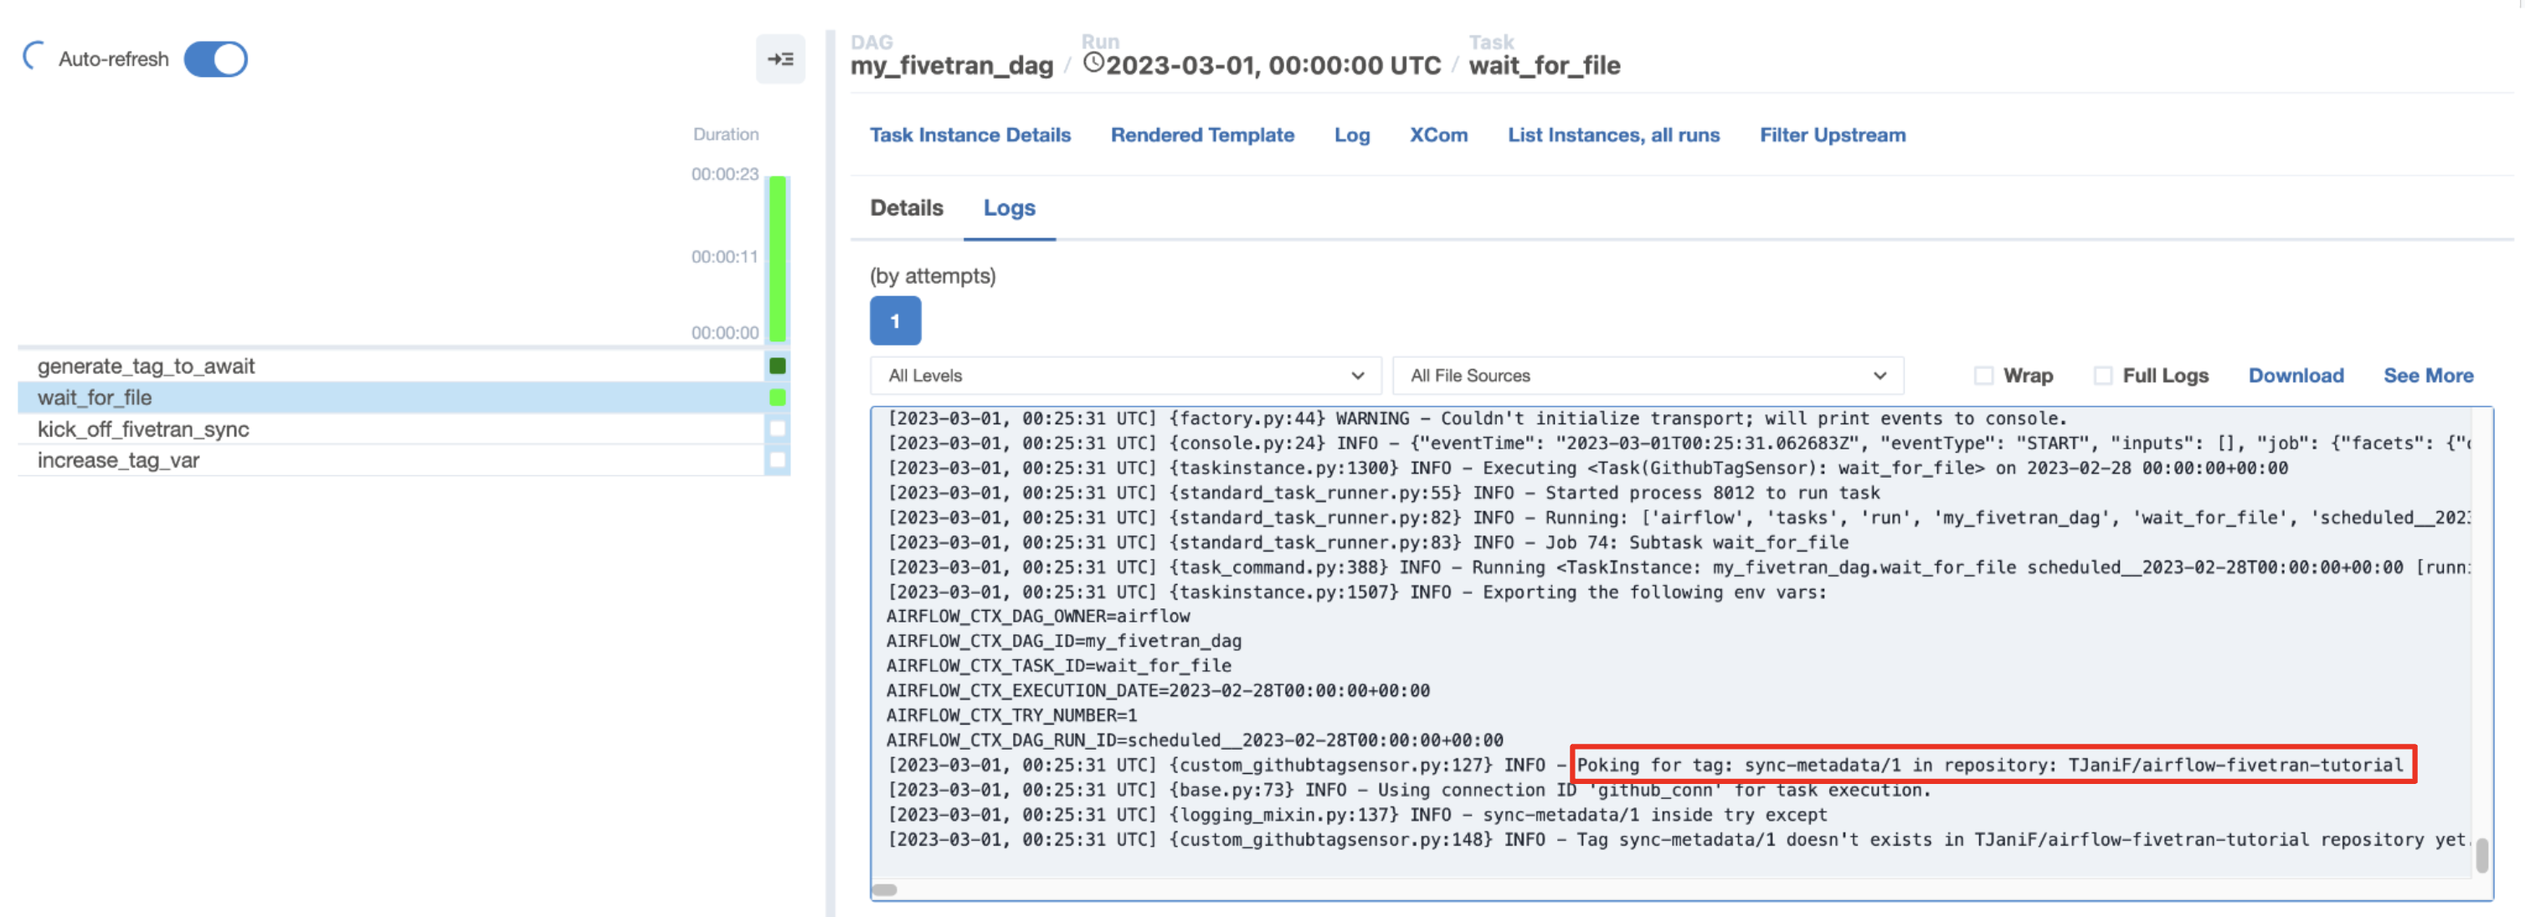
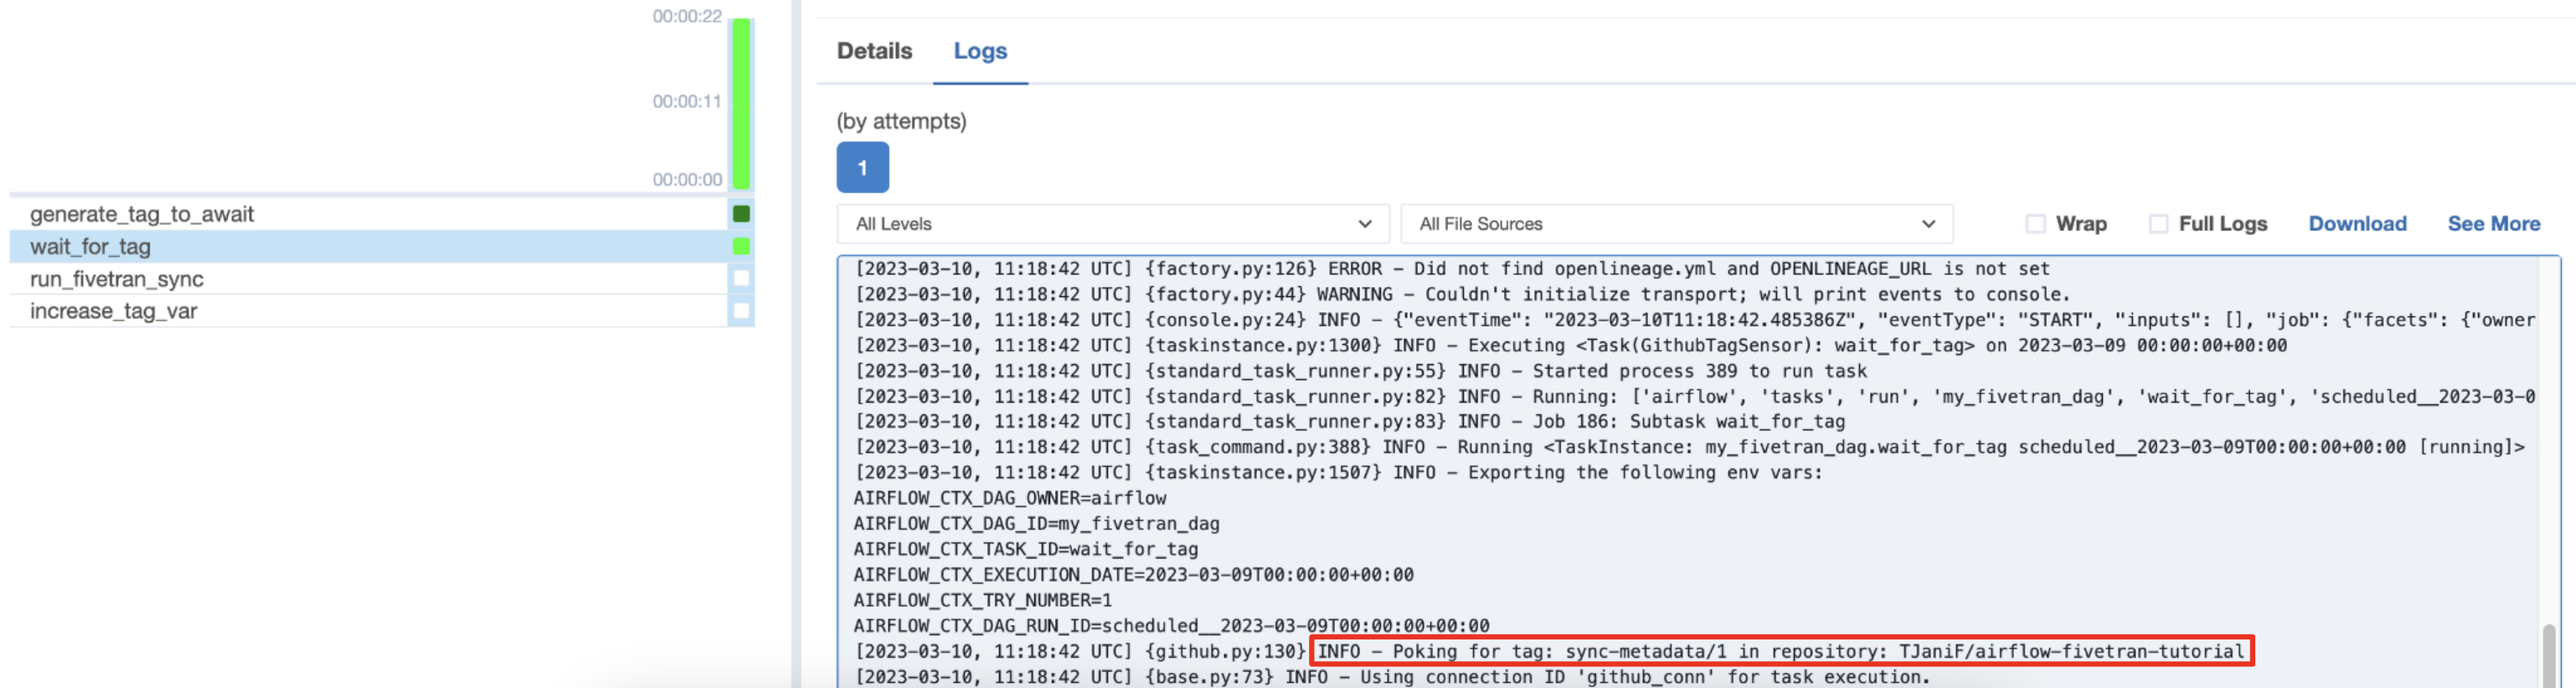
review edits part 2

diff --git a/code-samples/dags/airflow-fivetran/fivetran_tutorial_dag_1.py b/code-samples/dags/airflow-fivetran/fivetran_tutorial_dag_1.py
@@ -34,14 +34,14 @@ def my_fivetran_dag():
         return f"{TAG_NAME}/{number}"
 
     wait_for_tag = GithubTagSensor(
-        task_id="wait_for_file",
+        task_id="wait_for_tag",
         github_conn_id="github_conn",
         repository_name=GITHUB_REPOSITORY,
         tag_name="{{ ti.xcom_pull(task_ids='generate_tag_to_await', key='return_value') }}",
     )
 
-    kick_off_fivetran_sync = FivetranOperatorAsync(
-        task_id="kick_off_fivetran_sync",
+    run_fivetran_sync = FivetranOperatorAsync(
+        task_id="run_fivetran_sync",
         fivetran_conn_id="fivetran_conn",
         connector_id=FIVETRAN_CONNECTOR_ID,
     )
@@ -58,12 +58,7 @@ def my_fivetran_dag():
         task_logger.info(f"Set Variable '{TAG_NAME}' to {new_num}")
         return new_num
 
-    (
-        generate_tag_to_await()
-        >> wait_for_tag
-        >> kick_off_fivetran_sync
-        >> increase_tag_var()
-    )
+    (generate_tag_to_await() >> wait_for_tag >> run_fivetran_sync >> increase_tag_var())
 
 
 my_fivetran_dag()

diff --git a/learn/airflow-fivetran.md b/learn/airflow-fivetran.md
@@ -9,7 +9,7 @@ import CodeBlock from '@theme/CodeBlock';
 import fivetran_tutorial_dag_1 from '!!raw-loader!../code-samples/dags/airflow-fivetran/fivetran_tutorial_dag_1.py';
 
 [Fivetran](https://www.fivetran.com/) is a popular ELT platform that automates ingesting data from a variety of sources into a database, offering pre-built integrations for many common data tools.
-Using Airflow with Fivetran allows you to schedule your Fivetran syncs based on events in your larger data ecosystem, as well as kick-off downstream actions after a sync has finished.
+Using Airflow with Fivetran allows you to schedule your Fivetran syncs based on events in your larger data ecosystem, as well as trigger downstream actions after a sync has finished.
 
 In this tutorial, you'll learn how to install and use the Airflow Fivetran provider to submit and monitor Fivetran syncs.
 
@@ -93,13 +93,11 @@ Fivetran needs at least one [connector](https://fivetran.com/docs/getting-starte
 
 4. Authenticate Fivetran to your Github Account.
 
-5. Select the `your-github-username/airflow-fivetran-tutorial` repository to be synced. You don't need to enable Webhooks for this tutorial.
-
-    ![Select tutorial repository](/img/guides/fivetran_select_tutorial_repo.png)
+5. In **Sync Mode** select **Sync Specific Repositories**, then in **Repositories** select the `airflow-fivetran-tutorial` repository.
 
 6. Click **SAVE & TEST**. After your connection has been tested click **CONTINUE**.
 
-7. Click **Start Sync** to start your initial sync. This initial synchronization will load all historic metadata from your GitHub repository and has to be completed in Fivetran for the sync to become active. Once the Fivetran sync is active, you can set the sync frequency under the **Setup** tab or kick off the sync using the Fivetran API in Airflow.
+7. Click **Start Sync** to start your initial sync. This initial synchronization will load all historic metadata from your GitHub repository and has to be completed in Fivetran for the sync to become active. Once the Fivetran sync is active, you can set the sync frequency under the **Setup** tab or run the sync using the Fivetran API in Airflow.
 
 ## Step 5: Generate a Fivetran API key
 
@@ -125,9 +123,11 @@ To connect Airflow to Fivetran, create a Fivetran API key.
 
 The DAG in this tutorial waits for a specific tag to be added to a GitHub repository. To grant Airflow access to your GitHub repository, create a connection to GitHub in Airflow.
 
-1. In the Airflow UI, click **Admin** -> **Connections** -> **+** to create a new connection.
+1. Create a [Personal Access Token](https://docs.github.com/en/authentication/keeping-your-account-and-data-secure/creating-a-personal-access-token) (PAT) for your GitHub account. The PAT needs to have read access to the metadata of the `airflow-fivetran-tutorial` repository.
 
-2. Name your connection `github_conn` and select the **GitHub** connection type. Provide a [Personal Access Token](https://docs.github.com/en/authentication/keeping-your-account-and-data-secure/creating-a-personal-access-token) (PAT) for your GitHub account. The PAT needs to have read access to the metadata of the `airflow-fivetran-tutorial` repository.
+2. In the Airflow UI, click **Admin** -> **Connections** -> **+** to create a new connection.
+
+3. Name your connection `github_conn` and select the **GitHub** connection type. Provide the PAT you created in Step 7.1.
 
 4. Click **Test** to test your connection. Once you see `Connection tested successfully` click **Save**.
 
@@ -143,12 +143,12 @@ For this tutorial you will create a DAG that waits for a GitHub tag to be presen
 
     <CodeBlock language="python">{fivetran_tutorial_dag_1}</CodeBlock>
 
-This DAG contains four tasks: 
+    This DAG contains four tasks: 
 
-- The `generate_tag_to_await` task pulls a number from the custom [Airflow variable](https://airflow.apache.org/docs/apache-airflow/stable/howto/variable.html) `TAG_NAME`, or creates the Airflow variable and assigns a value of `1` if it does not exist yet. The task returns the tag to wait for in the format `sync-metadata/{number}`. This task helps set up the GitHubTagSensor and ensures that DAG can be run repeatedly.
-- The `wait_for_tag` task uses the [GitHubTagSensor](https://registry.astronomer.io/providers/github/modules/githubtagsensor) to wait for the `sync-metadata/{number}`tag to be present in your GitHub repository.
-- The `kick_off_fivetran_sync` task uses the FivetranOperatorAsync to trigger the Fivetran connector specified as `FIVETRAN_CONNECTOR_ID` as soon as the `wait_for_tag` task has completed successfully.
-- The `increase_tag_var` task increases the value assigned to the `sync-metadata` Airflow Variable by 1. This task ensures that next time you run the DAG, the sensor will wait for a new tag value to be added to your GitHub repo.
+    - The `generate_tag_to_await` task pulls a number from the custom [Airflow variable](https://airflow.apache.org/docs/apache-airflow/stable/howto/variable.html) `TAG_NAME`, or creates the Airflow variable and assigns a value of `1` if it does not exist yet. The task returns the tag to wait for in the format `sync-metadata/{number}`. This task helps set up the GitHubTagSensor and ensures that DAG can be run repeatedly.
+    - The `wait_for_tag` task uses the [GitHubTagSensor](https://registry.astronomer.io/providers/github/modules/githubtagsensor) to wait for the `sync-metadata/{number}`tag to be present in your GitHub repository.
+    - The `run_fivetran_sync` task uses the FivetranOperatorAsync to trigger the Fivetran connector specified as `FIVETRAN_CONNECTOR_ID` as soon as the `wait_for_tag` task has completed successfully.
+    - The `increase_tag_var` task increases the value assigned to the `sync-metadata` Airflow Variable by 1. This task ensures that next time you run the DAG, the sensor will wait for a new tag value to be added to your GitHub repo.
 
 4. Update the `FIVETRAN_CONNECTOR_ID` variable with the ID of your connector. You can find the ID of your connector in the Fivetran UI under the **Setup** tab:
 
@@ -159,6 +159,7 @@ This DAG contains four tasks:
 6. Save your DAG file with the changed variable names.
 
 The FivetranOperatorAsync is one of many [deferrable operators](deferrable-operators.md). Instead of taking up a worker slot, these operators will hand their task to the Airflow Triggerer component while waiting for a condition to be fulfilled. For longer running tasks, this can result in cost savings and greater scalability as more worker slots area available.
+
 ## Step 9: Run your DAG
 
 1. In the Airflow UI, unpause your DAG to start its last scheduled DAG run with a logical date of yesterday.
@@ -174,21 +175,21 @@ The FivetranOperatorAsync is one of many [deferrable operators](deferrable-opera
     git push --tags
     ```
 
-4. After a few seconds the sensor will detect the added file and print logs similar to the ones shown below.
+    After a few seconds the running GithubTagSensor task will detect the added file and print Airflow task logs similar to the ones shown below.
 
     ```text
-    [2023-03-01, 00:31:35 UTC] {custom_githubtagsensor.py:127} INFO - Poking for tag: sync-metadata/1 in repository: TJaniF/airflow-fivetran-tutorial
+    [2023-03-01, 00:31:35 UTC] {custom_githubtagsensor.py:127} INFO - Poking for tag: sync-metadata/1 in repository: <your-github-username>/airflow-fivetran-tutorial
     [2023-03-01, 00:31:35 UTC] {base.py:73} INFO - Using connection ID 'github_conn' for task execution.
-    [2023-03-01, 00:31:36 UTC] {custom_githubtagsensor.py:146} INFO - Tag sync-metadata/1 exists in TJaniF/airflow-fivetran-tutorial repository, Success.
+    [2023-03-01, 00:31:36 UTC] {custom_githubtagsensor.py:146} INFO - Tag sync-metadata/1 exists in <your-github-username>/airflow-fivetran-tutorial repository, Success.
     [2023-03-01, 00:31:36 UTC] {base.py:228} INFO - Success criteria met. Exiting.
     [2023-03-01, 00:31:36 UTC] {taskinstance.py:1318} INFO - Marking task as SUCCESS. 
     ```
 
-5. After the `wait_for_tag` task has completed, the `kick_off_fivetran_sync` task will start. This task will be in a deferred state (violet square) until the Fivetran sync is completed. 
+4. Click on the `run_fivetran_sync` task in the Airflow **Grid View**. This task will be in a deferred state (violet square) until the Fivetran sync is completed. 
 
     ![Fivetran Deferred](/img/guides/fivetran_deferred_operator.png)
 
-6. After the DAG run has finished successfully, verify in your Fivetran UI that the sync shows an additional `Manual Update Triggered` entry in its `User Actions`.
+5. After the DAG run has finished successfully, verify in your Fivetran UI that the sync shows an additional `Manual Update Triggered` entry in its `User Actions`.
 
     ![Fivetran additional sync](/img/guides/fivetran_additional_sync.png)
 
@@ -205,7 +206,7 @@ As a bonus, you can implement data observability into your data pipeline. If you
 
 1. In the Fivetran UI go to **Destinations** and select your warehouse, click the **BI tools** tab, and click **+ BI tool**.
 
-2. Authenticate to Tableau. See [Fivetran documentation](https://fivetran.com/docs/destinations/bigquery/managed-bigquery/tableau-setup-guide#spanclassstepitemauthorizegoogleuserintableauspan). Note that you have to authorize the same Google user to Tableau as you authorized to the Fivetran managed BigQuery service.
+2. Authenticate to Tableau. See [Fivetran documentation](https://fivetran.com/docs/destinations/bigquery/managed-bigquery/tableau-setup-guide). Note that you have to authorize the same Google user to Tableau as you authorized to the Fivetran managed BigQuery service.
 
 3. [Create a new Tableau worksheet](https://help.tableau.com/current/pro/desktop/en-us/environment_workspace.htm) either in Tableau desktop or in Tableau Cloud.
 
